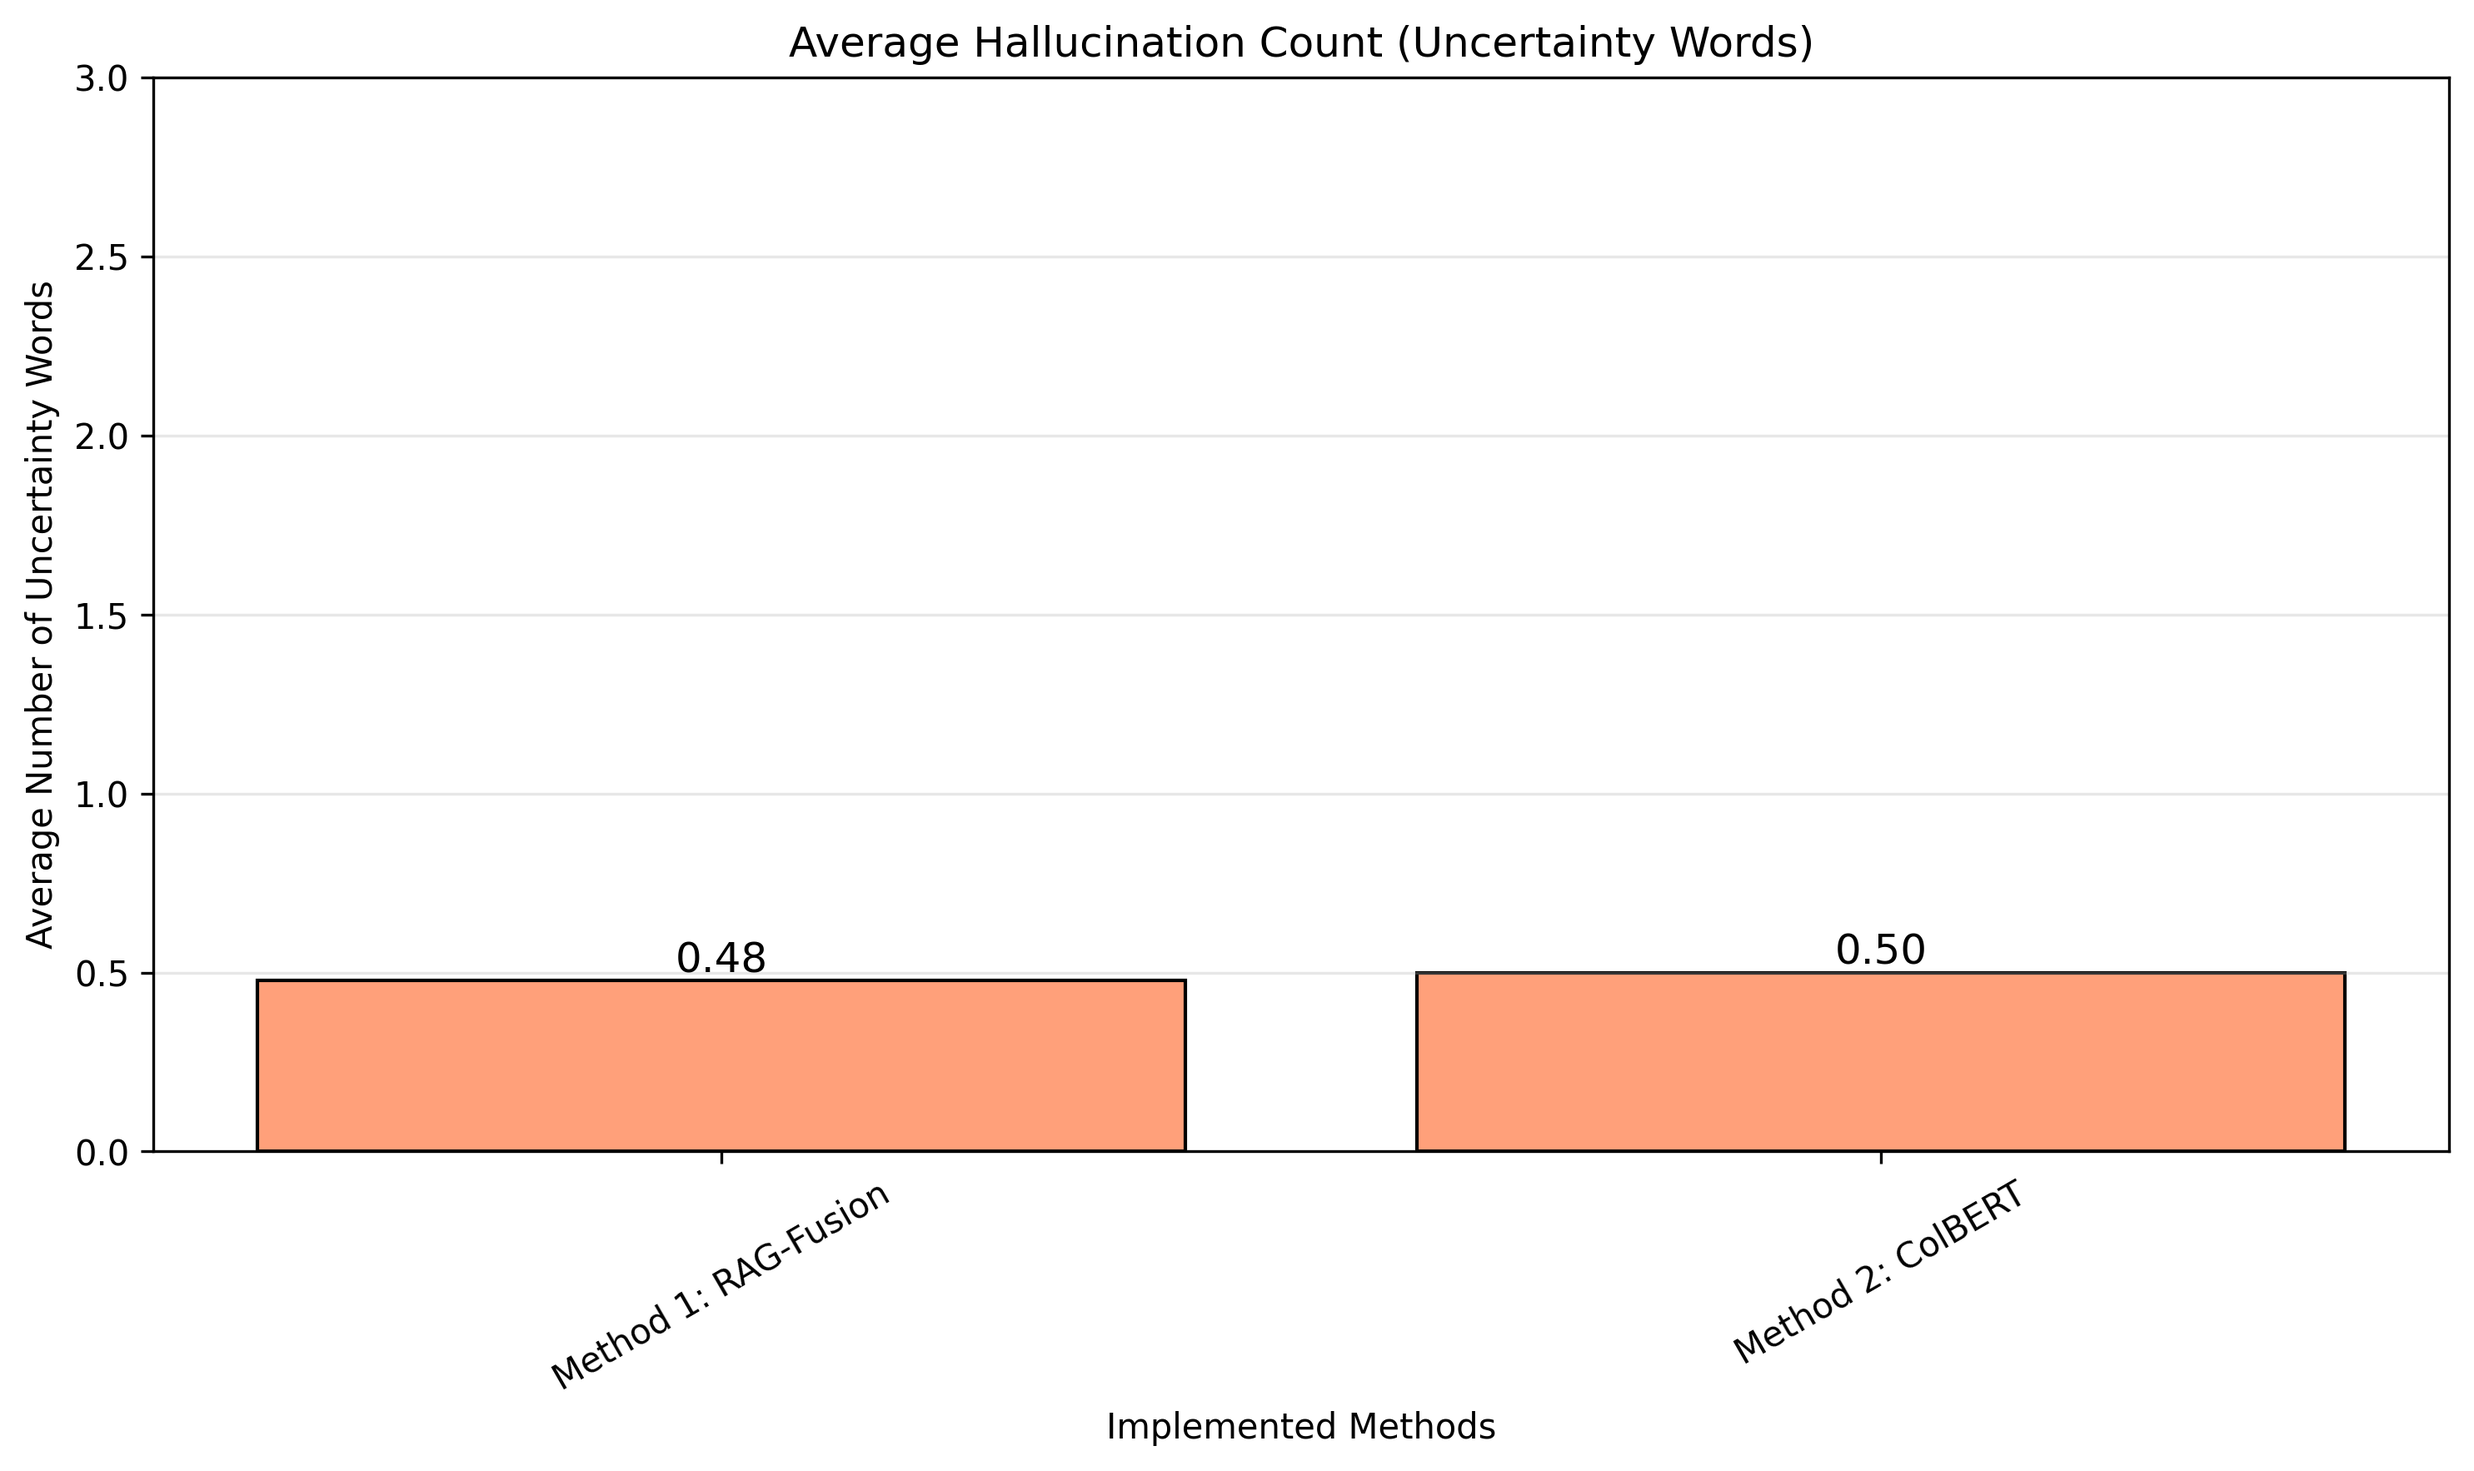
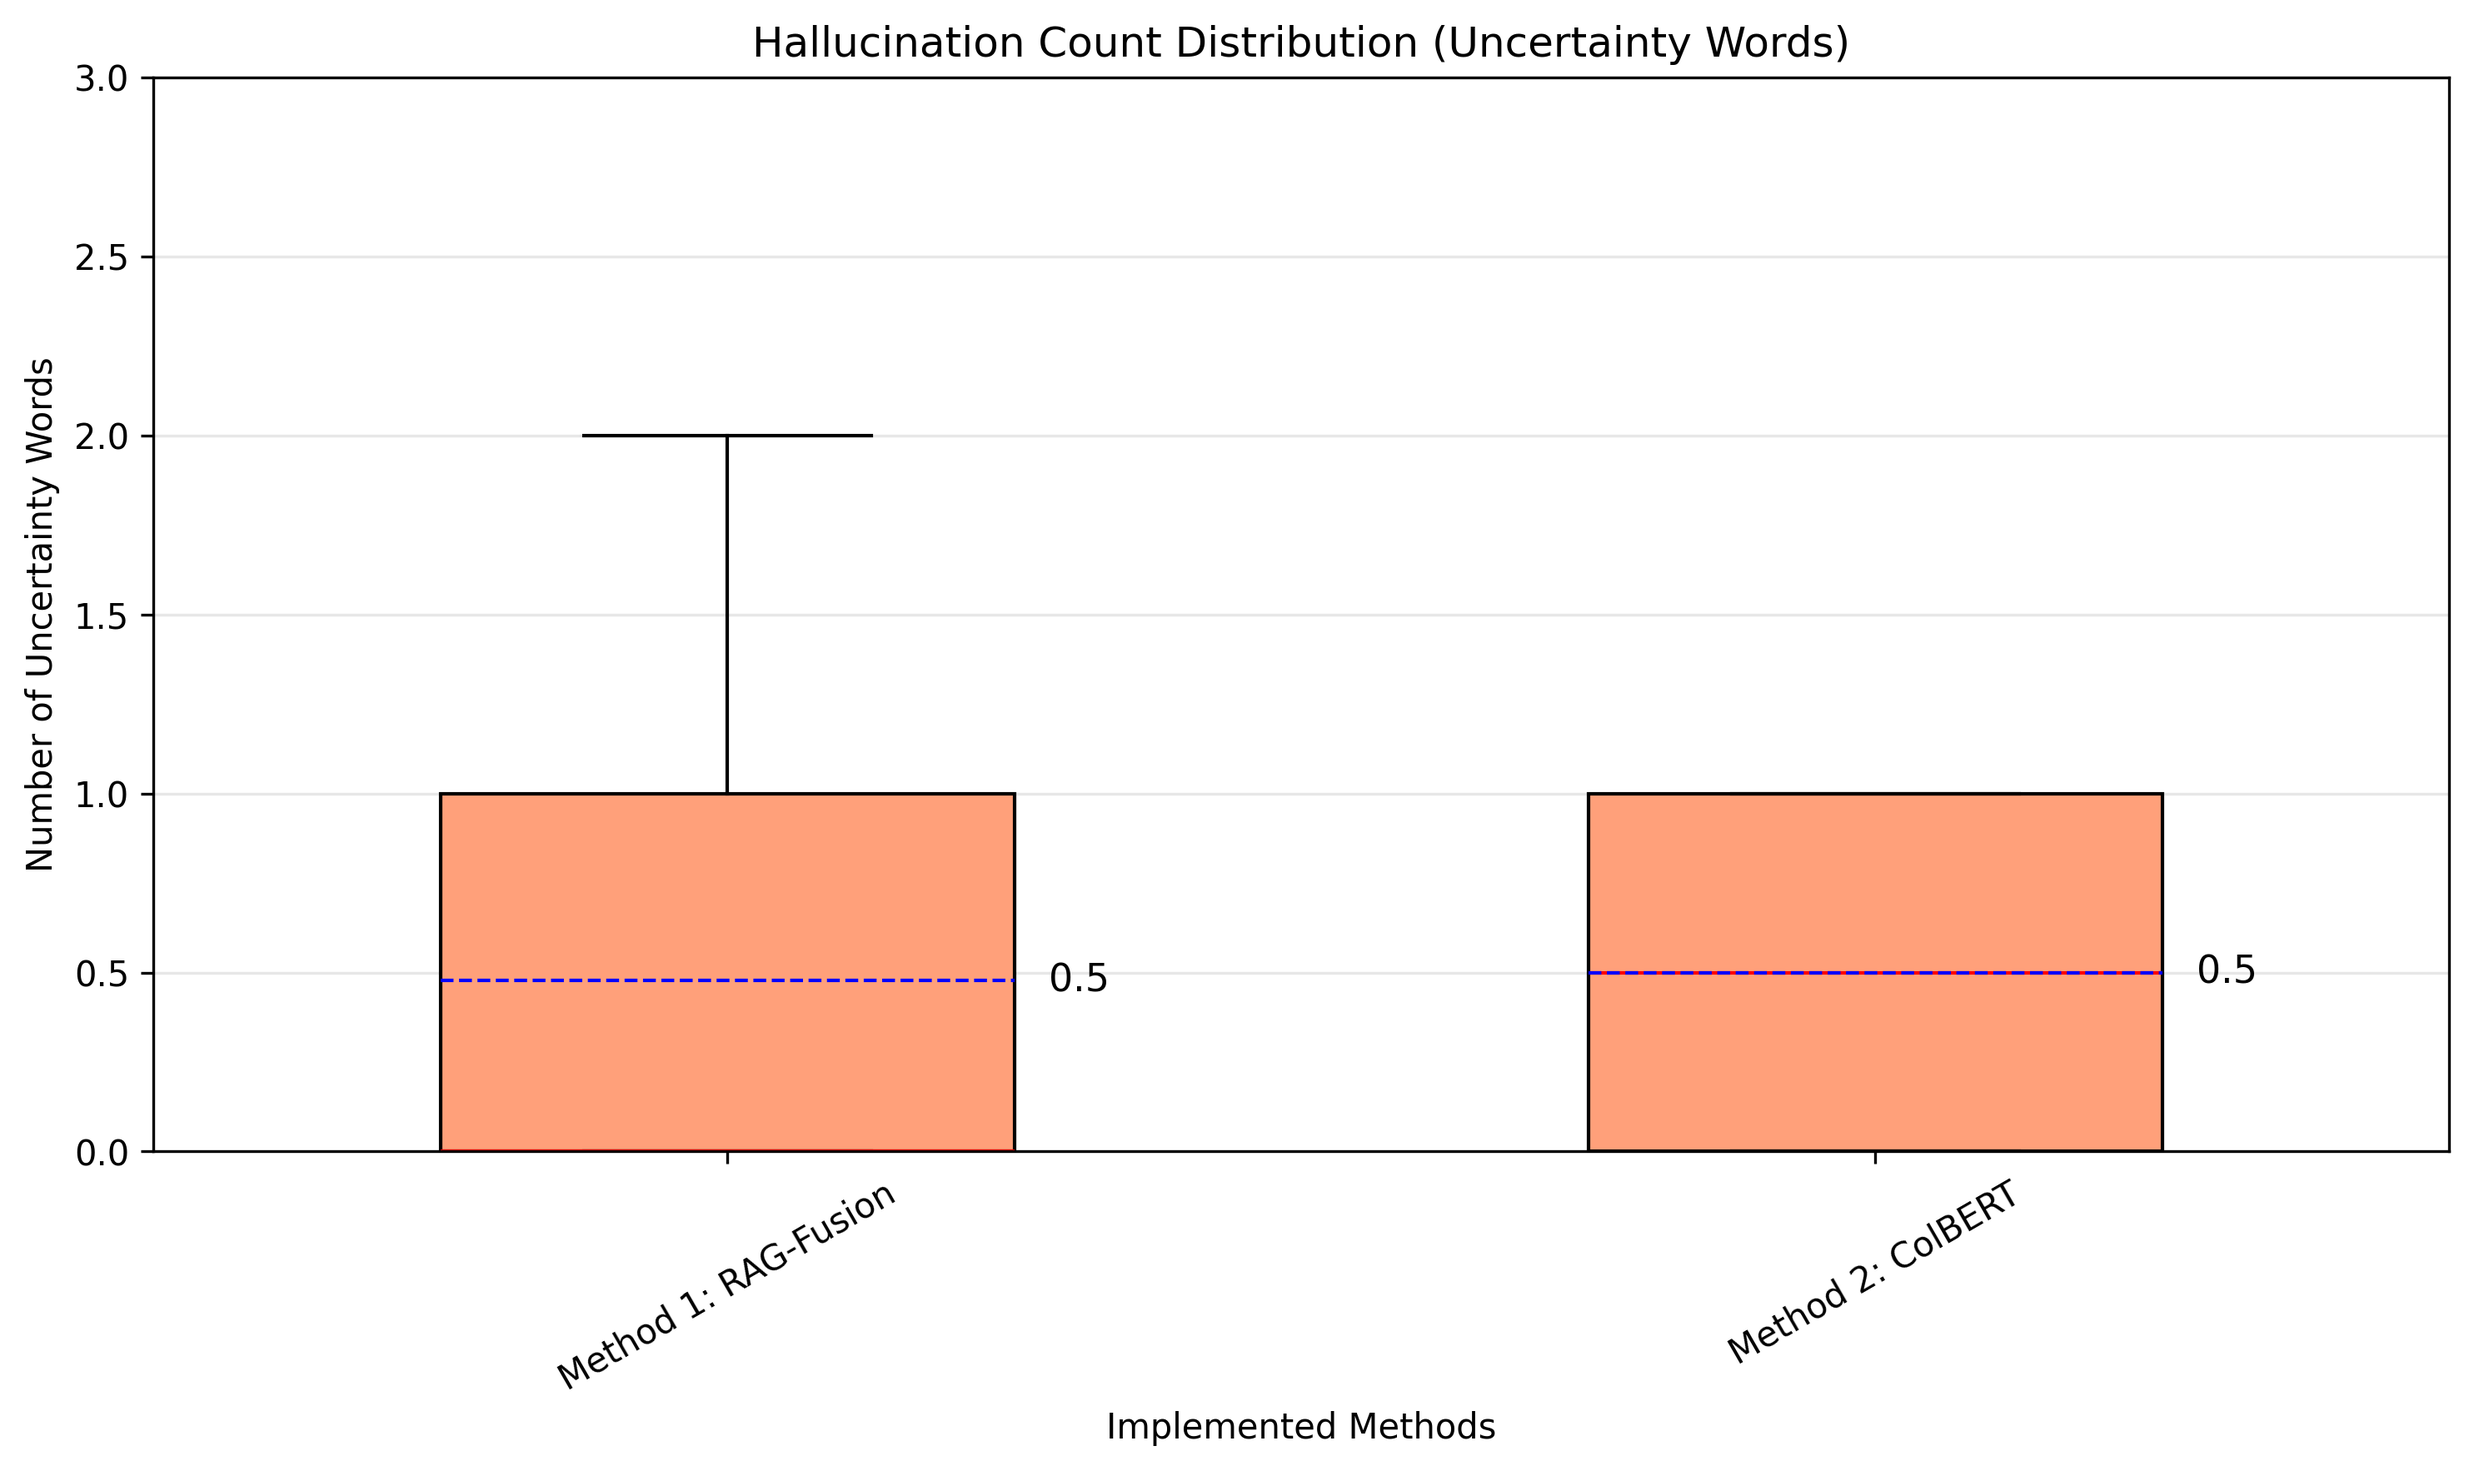
2026-3-30 (1)

diff --git a/old_notebook_files/Code_Evaluation/eval.py b/old_notebook_files/Code_Evaluation/eval.py
@@ -96,13 +96,18 @@ plt.show()
 
 # Plot average query time per system
 plt.figure(figsize=(10,6))
-bars2 = plt.bar(grouped['System'], grouped['Query time (s)'], color="#A7F579", edgecolor='black')
-for bar in bars2:
-    height = bar.get_height()
-    plt.text(bar.get_x() + bar.get_width()/2., height, f'{height:.2f}', ha='center', va='bottom', fontsize=12, rotation=0)
-plt.ylabel('Average Query Time (seconds)')
+data_to_plot = [df[df['System'] == s]['Query time (s)'].dropna() for s in system_order]
+bp = plt.boxplot(data_to_plot, tick_labels=system_order, patch_artist=True, boxprops=dict(facecolor="#A7F579"), 
+            medianprops=dict(color='red'), widths=0.5, showmeans=True, meanline=True, meanprops=dict(color='blue', linewidth=1))
+
+# Add mean labels
+means = [d.mean() for d in data_to_plot]
+for i, mean in enumerate(means):
+    plt.text(i + 1.28, mean, f'{mean:.1f}', ha='left', va='center', color='black', fontsize=11)
+
+plt.ylabel('Query Time (seconds)')
 plt.xlabel('Implemented Methods')
-plt.title('Average Query Time')
+plt.title('Query Time Distribution')
 plt.xticks(rotation=30)
 plt.ylim(0,60)
 plt.grid(axis='y', alpha=0.3)
@@ -112,13 +117,18 @@ plt.show()
 
 # Plot average word count per system
 plt.figure(figsize=(10,6))
-bars3 = plt.bar(grouped['System'], grouped['length_word_count'], color="#7AD9FF", edgecolor='black')
-for bar in bars3:
-    height = bar.get_height()
-    plt.text(bar.get_x() + bar.get_width()/2., height, f'{height:.2f}', ha='center', va='bottom', fontsize=12, rotation=0)
-plt.ylabel('Average Number of Words')
+data_to_plot = [df[df['System'] == s]['length_word_count'].dropna() for s in system_order]
+bp = plt.boxplot(data_to_plot, tick_labels=system_order, patch_artist=True, boxprops=dict(facecolor="#7AD9FF"), 
+            medianprops=dict(color='red'), widths=0.5, showmeans=True, meanline=True, meanprops=dict(color='blue', linewidth=1))
+
+# Add mean labels
+means = [d.mean() for d in data_to_plot]
+for i, mean in enumerate(means):
+    plt.text(i + 1.28, mean, f'{mean:.1f}', ha='left', va='center', color='black', fontsize=11)
+
+plt.ylabel('Number of Words')
 plt.xlabel('Implemented Methods')
-plt.title('Average Word Count')
+plt.title('Word Count Distribution')
 plt.xticks(rotation=30)
 plt.ylim(0, 500)
 plt.grid(axis='y', alpha=0.3)
@@ -126,17 +136,22 @@ plt.tight_layout()
 plt.savefig('avg_word_count.png', dpi=300, bbox_inches='tight')
 plt.show()
 
-# Plot average hallucination uncertainty  count per system
+# Plot average hallucination uncertainty count per system
 plt.figure(figsize=(10,6))
-bars4 = plt.bar(grouped['System'], grouped['hallucination_uncertainty_count'], color='#FFA07A', edgecolor='black')
-for bar in bars4:
-    height = bar.get_height()
-    plt.text(bar.get_x() + bar.get_width()/2., height, f'{height:.2f}', ha='center', va='bottom', fontsize=12, rotation=0)
-plt.ylabel('Average Number of Uncertainty Words')
+data_to_plot = [df[df['System'] == s]['hallucination_uncertainty_count'].dropna() for s in system_order]
+bp = plt.boxplot(data_to_plot, tick_labels=system_order, patch_artist=True, boxprops=dict(facecolor='#FFA07A'), 
+            medianprops=dict(color='red'), widths=0.5, showmeans=True, meanline=True, meanprops=dict(color='blue', linewidth=1))
+
+# Add mean labels
+means = [d.mean() for d in data_to_plot]
+for i, mean in enumerate(means):
+    plt.text(i + 1.28, mean, f'{mean:.1f}', ha='left', va='center', color='black', fontsize=11)
+
+plt.ylabel('Number of Uncertainty Words')
 plt.xlabel('Implemented Methods')
-plt.title('Average Hallucination Count (Uncertainty Words)')
+plt.title('Hallucination Count Distribution (Uncertainty Words)')
 plt.xticks(rotation=30)
-plt.ylim(0,3)
+plt.ylim(0, 3)
 plt.grid(axis='y', alpha=0.3)
 plt.tight_layout()
 plt.savefig('avg_hallucination_count.png', dpi=300, bbox_inches='tight')

diff --git a/APP/rag_pipeline/pipeline.py b/APP/rag_pipeline/pipeline.py
@@ -146,7 +146,7 @@ def rrf_ragfusion(state: State, k: int = 60) -> dict:
     }
     reranked_docs = [doc_map[key] for key, _ in reranked[:num_docs]]
     
-    # reranked_docs = [swap_table_if_exists(doc) for doc in reranked_docs]
+    reranked_docs = [swap_table_if_exists(doc) for doc in reranked_docs]
     
     print(f"[RRF] Selected top {len(reranked_docs)} documents after fusion")
     return {"context": reranked_docs}
@@ -200,7 +200,7 @@ def retrieve_colbert(state: State) -> dict:
         print(f"[ColBERT] Warning: No valid reranked results, using top initial candidates")
         finalized_docs = docs[:num_docs]
         
-    #finalized_docs = [swap_table_if_exists(doc) for doc in finalized_docs]
+    finalized_docs = [swap_table_if_exists(doc) for doc in finalized_docs]
 
     print(f"[ColBERT] Reranked to top {len(finalized_docs)} documents")
     return {"context": finalized_docs}

diff --git a/readme.md b/readme.md
@@ -4,6 +4,11 @@ Type: 2526-AIIE-FYP, private repository <br>
 Technical Stacks: DeepSeek-R1 (LLM), bge-m3 (EM), ChromaDB (RAG), LangChain (Pipeline)
 
 ## PROGRESS HISTORY
+2026-3-30 (1): GRAND FINAL
+- Amended eval.py for some charts (bar -> box plots).
+- Added evaluations between ColBERT and RAGFusion using new dataset.
+- Bug fixes in the pipeline.
+
 2026-3-27 (1):
 - Retrieving most recent chat seems not working for some reason: Disabling it.
 - Sort the dropdown menu in alphabetical order in the Gradio APP.
